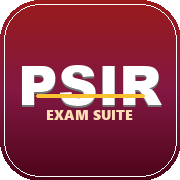
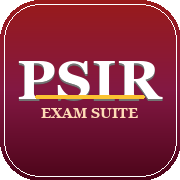
style: enforce Roboto Serif typography across all headings, cards, deck controls, and filters

Changed region(s): [[0.0833, 0.3333, 0.9167, 0.6667]]

diff --git a/new_ideas.html b/new_ideas.html
@@ -17,10 +17,10 @@
   <meta name="apple-mobile-web-app-status-bar-style" content="black-translucent">
   <meta name="apple-mobile-web-app-title" content="PSIR Ideas">
 
-  <!-- Google Fonts: Roboto Serif, Plus Jakarta Sans, Outfit, JetBrains Mono -->
+  <!-- ROBOTO SERIF TYPOGRAPHY SUITE -->
   <link rel="preconnect" href="https://fonts.googleapis.com">
   <link rel="preconnect" href="https://fonts.gstatic.com" crossorigin>
-  <link href="https://fonts.googleapis.com/css2?family=Outfit:wght@500;600;700;800;900&family=Plus+Jakarta+Sans:wght@400;500;600;700;800&family=Roboto+Serif:ital,opsz,wght@0,8..144,300..900;1,8..144,300..900&family=JetBrains+Mono:wght@500;700&display=swap" rel="stylesheet">
+  <link href="https://fonts.googleapis.com/css2?family=Roboto+Serif:ital,opsz,wght@0,8..144,300..900;1,8..144,300..900&family=JetBrains+Mono:wght@500;700&display=swap" rel="stylesheet">
 
   <style>
     /* ========================================================
@@ -62,7 +62,7 @@
       --hook-border: #c084fc;
       --hook-text: #581c87;
 
-      --font-display: 'Outfit', sans-serif;
+      --font-display: 'Roboto Serif', Georgia, serif;
       --font-serif: 'Roboto Serif', Georgia, serif;
       --font-reader: 'Roboto Serif', Georgia, serif;
       --font-mono: 'JetBrains Mono', monospace;
@@ -114,10 +114,38 @@
       padding: 0;
     }
 
+    body, button, input, select, textarea {
+      font-family: var(--font-reader);
+    }
+
+    h1, h2, h3, h4, h5, h6,
+    .brand-section, .brand-title, .psir-badge-text,
+    .toggle-sidebar-btn, .topbar-nav-links, .topbar-nav-link,
+    .topbar-filters, .top-filter-btn, .header-actions, .header-action-btn,
+    .font-size-adjuster, .font-size-action-btn, .font-size-icon, .fs-mark,
+    .sidebar-header, .sidebar-title, .sidebar-search-box, .sidebar-search-input,
+    .sidebar-tree, .sidebar-idea-item, .sidebar-idea-scholar, .sidebar-idea-tag,
+    .mobile-deck-toolbar, .deck-controls-row, .deck-nav-btn, .deck-counter-badge, .deck-counter-badge strong, .deck-mode-toggle-btn,
+    .ideas-cards-container, .idea-card, .idea-card-topbar, .idea-meta-pills, .idea-idx-pill, .idea-paper-pill, .idea-topic-pill,
+    .scholar-profile-row, .scholar-avatar, .scholar-info-wrap, .scholar-name, .scholar-affil,
+    .idea-concept-title, .hook-quote-box, .hook-badge-row, .hook-type-tag, .copy-hook-btn, .hook-quote-text,
+    .idea-explanation-text, .exam-utility-box, .exam-utility-header, .exam-utility-content,
+    .source-citation-line, .idea-card-bottombar, .card-status-badge,
+    .checkpoint-card-wrap, .checkpoint-banner, .checkpoint-tag, .cp-option-btn, .cp-explanation-box {
+      font-family: var(--font-reader);
+    }
+
+    h1, h2, h3, h4, h5, h6,
+    .scholar-name, .idea-concept-title, .sidebar-title,
+    .deck-nav-btn, .deck-counter-badge, .deck-counter-badge strong, .deck-mode-toggle-btn, .top-filter-btn,
+    .topbar-nav-link, .toggle-sidebar-btn, .hook-type-tag, .psir-badge-text,
+    .sidebar-idea-scholar, .idea-paper-pill, .font-size-icon {
+      font-family: var(--font-display);
+    }
+
     body {
       background: var(--bg-app);
       color: var(--text-main);
-      font-family: var(--font-reader);
       min-height: 100vh;
       display: flex;
       flex-direction: column;
@@ -259,7 +287,7 @@
       flex-shrink: 0;
     }
     .psir-badge-text {
-      font-family: 'Segoe UI Black', 'Arial Black', Impact, sans-serif;
+      font-family: var(--font-display);
       font-size: 12.5px;
       font-weight: 900;
       letter-spacing: 0.8px;
@@ -541,7 +569,7 @@
     .sidebar-idea-tag {
       font-size: 10px;
       font-weight: 800;
-      font-family: var(--font-mono);
+      font-family: var(--font-display);
       padding: 2px 5px;
       border-radius: 4px;
       background: rgba(0,0,0,0.05);
@@ -636,7 +664,7 @@
       gap: 6px;
       white-space: nowrap;
     }
-    .deck-counter-badge strong { font-family: var(--font-mono); font-size: 13.5px; }
+    .deck-counter-badge strong { font-family: var(--font-display); font-size: 13.5px; }
 
     .deck-mode-toggle-btn {
       background: transparent;
@@ -720,7 +748,7 @@
       flex-wrap: wrap;
     }
     .idea-idx-pill {
-      font-family: var(--font-mono);
+      font-family: var(--font-display);
       font-size: 11px;
       font-weight: 800;
       background: var(--accent-bg);
@@ -1819,7 +1847,7 @@
               <span class="card-status-badge ${choice ? `status-badge-${choice}` : ''}">
                 ${choice === 'right' ? '✓ Mastered' : choice === 'wrong' ? '✕ Needs Revision' : choice === 'circle' ? '○ In Review' : 'Active Recall Ready'}
               </span>
-              <span style="font-size: 11px; color: var(--text-dim); font-family: var(--font-mono); opacity: 0.8;">
+              <span style="font-size: 11px; color: var(--text-dim); font-family: var(--font-display); opacity: 0.8;">
                 ${item.keywords.slice(0, 3).map(k => '#' + k).join(' ')}
               </span>
             </div>

diff --git a/keyterms.html b/keyterms.html
@@ -19,7 +19,7 @@
   <!-- 10 Reader Fonts from Google Fonts -->
   <link rel="preconnect" href="https://fonts.googleapis.com">
   <link rel="preconnect" href="https://fonts.gstatic.com" crossorigin>
-  <link href="https://fonts.googleapis.com/css2?family=Plus+Jakarta+Sans:wght@400;500;600;700;800&family=Inter:wght@400;500;600;700&family=Merriweather:ital,wght@0,300;0,400;0,700;1,400&family=Lora:ital,wght@0,400;0,600;1,400&family=Roboto+Serif:opsz,wght@8..144,400;8..144,600&family=Source+Serif+4:opsz,wght@8..60,400;8..60,600&family=Outfit:wght@500;600;700;800&family=Literata:ital,opsz,wght@0,7..72,400;0,7..72,600;1,7..72,400&family=Crimson+Pro:ital,wght@0,400;0,600;1,400&family=Nunito:wght@400;600;700;800&family=JetBrains+Mono:wght@500;700&display=swap" rel="stylesheet">
+  <link href="https://fonts.googleapis.com/css2?family=Plus+Jakarta+Sans:wght@400;500;600;700;800&family=Inter:wght@400;500;600;700&family=Merriweather:ital,wght@0,300;0,400;0,700;1,400&family=Lora:ital,wght@0,400;0,600;1,400&family=Roboto+Serif:ital,opsz,wght@0,8..144,300..900;1,8..144,300..900&family=Source+Serif+4:opsz,wght@8..60,400;8..60,600&family=Outfit:wght@500;600;700;800&family=Literata:ital,opsz,wght@0,7..72,400;0,7..72,600;1,7..72,400&family=Crimson+Pro:ital,wght@0,400;0,600;1,400&family=Nunito:wght@400;600;700;800&family=JetBrains+Mono:wght@500;700&display=swap" rel="stylesheet">
   
   <style>
     /* ========================================================
@@ -56,8 +56,8 @@
       --circle-bg: #fffbeb;
       --circle-border: #fde68a;
 
-      --font-display: 'Outfit', sans-serif;
-      --font-reader: 'Plus Jakarta Sans', -apple-system, sans-serif;
+      --font-display: 'Roboto Serif', Georgia, serif;
+      --font-reader: 'Roboto Serif', Georgia, serif;
       --font-mono: 'JetBrains Mono', monospace;
 
       --sidebar-width: 300px;
@@ -1506,7 +1506,7 @@
       // 10 Reader Fonts
       const fontPickerBtn = document.getElementById('fontPickerBtn');
       const fontPickerMenu = document.getElementById('fontPickerMenu');
-      const savedFont = localStorage.getItem('psir_reader_font') || 'Plus Jakarta Sans';
+      const savedFont = localStorage.getItem('psir_reader_font') || 'Roboto Serif';
 
       function applyReaderFont(fontName) {
         const fontMap = {
@@ -1521,7 +1521,7 @@
           'Crimson Pro': "'Crimson Pro', serif",
           'Nunito': "'Nunito', sans-serif"
         };
-        const family = fontMap[fontName] || fontMap['Plus Jakarta Sans'];
+        const family = fontMap[fontName] || fontMap['Roboto Serif'];
         document.documentElement.style.setProperty('--font-reader', family);
         document.body.style.fontFamily = family;
         localStorage.setItem('psir_reader_font', fontName);

diff --git a/generate_app_icons.py b/generate_app_icons.py
@@ -50,9 +50,9 @@ def create_psir_icon(size):
         width=max(1, int(size * 0.008))
     )
 
-    # Text Font for PSIR in bold letters
+    # Text Font for PSIR in bold serif letters
     font_size = int(size * 0.31)
-    font_path = r"C:\Windows\Fonts\ariblk.ttf" # Arial Black
+    font_path = r"C:\Windows\Fonts\georgiab.ttf" # Georgia Bold serif
     if not os.path.exists(font_path):
         font_path = r"C:\Windows\Fonts\arialbd.ttf"
         
@@ -92,7 +92,7 @@ def create_psir_icon(size):
     # Subtitle pill "PREP SUITE" or "UPSC"
     sub_font_size = int(size * 0.08)
     try:
-        sub_font = ImageFont.truetype(r"C:\Windows\Fonts\seguibl.ttf", sub_font_size)
+        sub_font = ImageFont.truetype(r"C:\Windows\Fonts\georgiab.ttf", sub_font_size)
     except:
         try:
             sub_font = ImageFont.truetype(r"C:\Windows\Fonts\arialbd.ttf", sub_font_size)
@@ -148,11 +148,11 @@ svg_content = '''<svg xmlns="http://www.w3.org/2000/svg" viewBox="0 0 512 512">
   <rect width="512" height="512" rx="115" fill="url(#bgGrad)"/>
   <rect x="12" y="12" width="488" height="488" rx="103" fill="none" stroke="rgba(255,255,255,0.22)" stroke-width="4"/>
   <!-- Bold PSIR Typography -->
-  <text x="256" y="275" font-family="'Segoe UI Black', 'Arial Black', Impact, sans-serif" font-weight="900" font-size="160" fill="#ffffff" text-anchor="middle" letter-spacing="4" filter="url(#textGlow)">PSIR</text>
+  <text x="256" y="275" font-family="'Roboto Serif', Georgia, serif" font-weight="900" font-size="160" fill="#ffffff" text-anchor="middle" letter-spacing="4" filter="url(#textGlow)">PSIR</text>
   <!-- Gold Accent Divider -->
   <rect x="166" y="318" width="180" height="8" rx="4" fill="url(#goldGrad)"/>
   <!-- Sub-label -->
-  <text x="256" y="375" font-family="'Segoe UI', -apple-system, sans-serif" font-weight="800" font-size="38" fill="#fed7aa" text-anchor="middle" letter-spacing="6">EXAM SUITE</text>
+  <text x="256" y="375" font-family="'Roboto Serif', Georgia, serif" font-weight="800" font-size="38" fill="#fed7aa" text-anchor="middle" letter-spacing="6">EXAM SUITE</text>
 </svg>'''
 
 with open("favicon.svg", "w", encoding="utf-8") as f:
